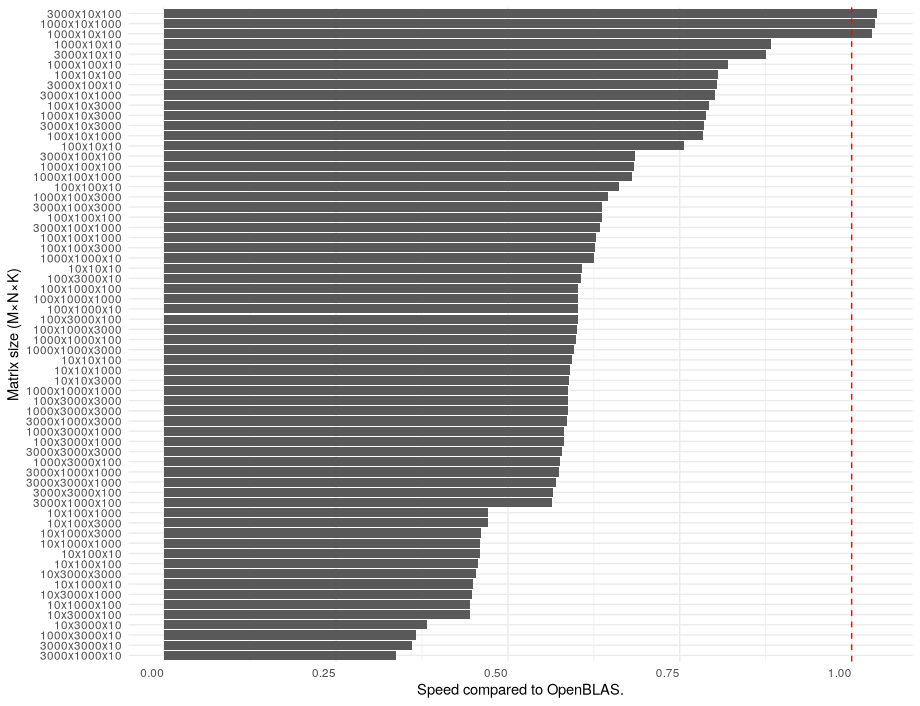
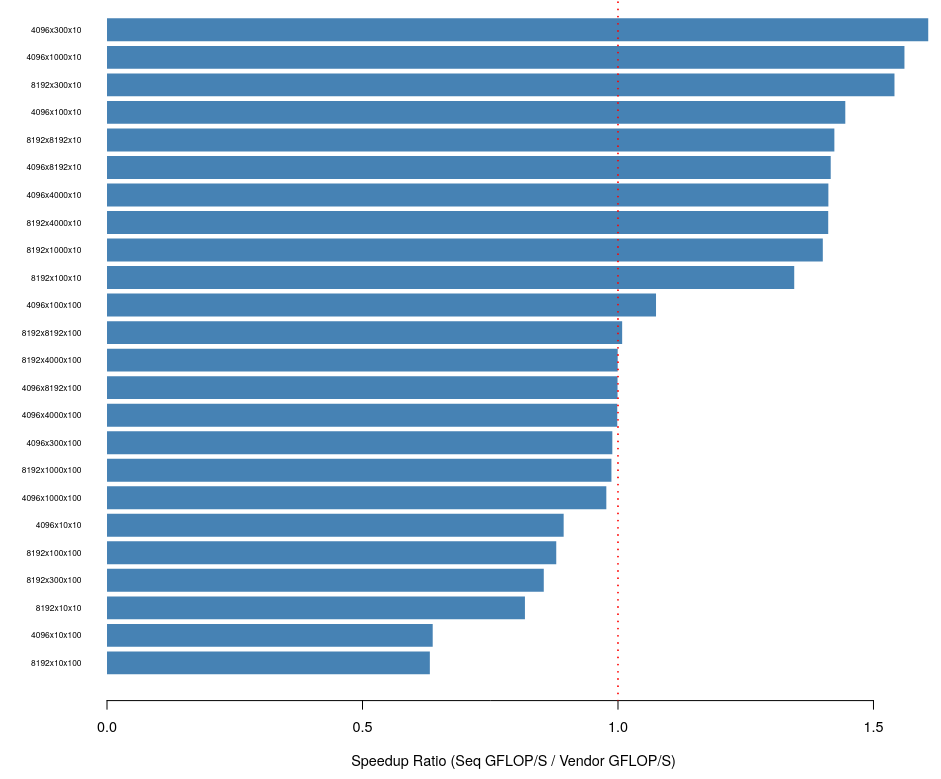
partie goto

diff --git a/report/dgemm_seq.tex b/report/dgemm_seq.tex
@@ -1,0 +1,135 @@
+% \section{Versions séquentielles}
+% \subsection{Considérations}
+% Le code est exécuté sur un coeur d'un Intel Xeon E5-2680 v3 @ 2.50GHz d'un noeud miriel de Plafrim.\\
+% C'est une architecture Haswell, capable de réaliser 16 opérations flottantes par cycle par coeur, avec une vitesse d'horloge maximale de 2.5Ghz, donnant un maximum théorique de 40 GFlop/s sur un seul coeur.
+% \subsection{Implémentation du produit scalaire}
+% Nous avons implémentés une version naïve du produit scalaire, parcourant deux vecteurs pour calculer $<a,b>=\sum_{i=1}^n{a_ib_i}$ pour $a$ et $b$ dans $\mathbb{K}^n$. Comme nous ne l'utiliserons pas dans notre DGEMM, nous n'allons pas perdre de temps à essayer de l'optimiser. De plus, chaque valeur n'étant utilisée qu'une et une seule fois nous ne voyons pas de stratégies d'optimisation évidente.\\
+% Voici une comparaisons sur des vecteurs de tailles croissante entre notre implémentation et celle d'OpenBLAS:
+% \begin{figure}[H]
+%     \centering
+%     \includegraphics[width=0.925\linewidth]{assets/ddot_seq_vs_vendor.png}
+%     \caption{Comparaison entre l'implémentation du produit scalaire d'OpenBLAS et la notre.}
+%     \label{fig:placeholder}
+% \end{figure}
+% On constate donc que, même avec un kernel optimisé, OpenBLAS n'est plus performant que notre implémentation uniquement sur de grands vecteurs ($N > 512$), et que le gain n'est pas significatif car nous restons bien loin du pic théorique. C'est attendu étant donné que; comme dit précédemment, chaque donnée est utilisée une et une seule fois. Cela implique un grand nombre d'aller-retour en mémoire pour une intensité arithmétique faible, un très mauvais cas de figure donc pour maximiser l'utilisation d'un processeur !
+
+% \subsection{Implémentation du produit matriciel}
+% Nous nous baserons, à minima pour les versions CPU du produit matriciel sur l'implémentation classique à trois boucles (en suivant l'ordre $n, k, m$) pour le cas où A et B ne sont pas transposées. Nous réaliserons l'opération $\alpha AB+\beta C$, en prenant donc en compte les valeurs de $\alpha$ et $\beta$. Nous reviendrons sur les performances de cette implémentation plus tard afin de ne pas surcharger le rapport de figures peu intéressantes. Il sera présenté sour le nom de kernel "scalaire". C'est le kernel fourni de base dans le code. Nous avons décidés de le garder car notre implémentation était très similaire, ne gérant simplement pas les cas impliquants une matrice transposée.
+% \subsection{Implémentation de la factorisation LU}
+% <TODO>
+
+% \section{Blocage et vectorisation}
+% \subsection{Implémentatin d'une version en blocs}
+% Nous avons implémentés une version en blocs se reposant sur le kernel de DGEMM "scalaire". Cette dernière est assez simple, nous avons reprit le code du kernel "scalaire", et avons ajoutés un pas égal à `dgemm\_seq\_bloc\_size`. Pour tous les blocs nous allons d'abord appeler scale\_bloc\` pour multiplier les valeurs de $C$ par $\beta$, puis nous appelons le kernel scalaire sur le bloc courant. L'implémentation est peu performante, mais nous n'avons pas cherchés à l'optimiser outre mesure car nous avons basés notre DGEMM séquentiel final sur une approche bloquée assez différente de celle-ci. Nous reviendrons également sur les performances de ce kernel plus tard dans le rapport !
+
+% \subsection{Implémentation d'une version vectorisée}
+% Comme vu précédemment, nous travaillons sur des processeurs Xeon E5-2680 v3 basés sur l'architecture Haswell. Il supporte donc entre autre les extensions SIMD AVX2 et FMA. Concrètement, nous pouvons manipuler des vecteurs de 256 bits. Un double étant un mot de 64 bits, nous pouvons donc manipuler des vecteurs de 4 doubles.\\
+% Une implémentation naïve de l'opération DGEMM peut donc être faite en itérant dans la boucle interne avec un pas de 4 au lieu de 1, et en vectorisant les opérations de la boucle itérant le plus rapidement. Comme dit précédemment, nous itérons dans l'ordre $n, k, m$. Nous traiterons donc les éléments de 4 lignes consécutives à la fois pour chaque itération.\\
+% Le procédé reste donc le même:\\
+% Pour chaque vecteur d'une colonne $n$ de $C$, nous multiplions d'abord les $m$ éléments de ce vecteur par $\beta$, en procédant 4 lignes à la fois. Nous passons ensuite à la réduction sur la dimension $k$. Nous chargeons la valeur de $B$ correspondant au couple $n, k$ courant puis la broadcastons dans un vecteur. Ensuite, nous chargeons 4 lignes du vecteur courant de $A$ et de $C$ et ajoutons aux lignes de $C$ les valeurs des lignes de $A$ multipliées par la valeur broadcastée de $B$, en prenant en compte la multiplication par $\alpha$.\\
+% Finalement, un retour en séquentiel permet de traiter les éléments finaux si $m$ n'est pas divisible par 4.\\
+% \subsubsection{Impact de l'utilisation de FMA}
+% L'implémentation naïve AVX2 utilise ces instruction: "C\_mn\_subvec = \_mm256\_add\_pd(C\_mn\_subvec, \_mm256\_mul\_pd(A\_mk\_subvec, B\_nk\_vec));", qui peuvent être remplacées par "C\_mn\_subvec = \_mm256\_fmadd\_pd(A\_mk\_subvec, B\_nk\_vec, C\_mn\_subvec);". En effet, le jeu d'instruction AVX2+FMA offre la possibilité de réaliser deux opérations Fuse-Multiply-Add par cycle. Cette opération permet de réaliser dans notre cas l'opération $C += A*B$. Voici comment FMA impact la rapidité du kernel:
+% Nous aurions pu nous attendre à ce que le compileur optimise l'enchaînement de la multiplication et l'addition par un FMA, à minima à un niveau d'optimisation -O3, mais après une rapide lecture du code assembleur généré (en passant par Godbolt), nous constatons que ce n'est pas le cas:
+% \begin{lstlisting}
+% dgemm_kernel_avx2_fma:
+%     (...)
+%     vfmadd213pd     ymm7, ymm6, ymmword ptr [r10 + 8*rax]
+%     (...)
+% dgemm_kernel_avx2_nofma:
+%     (...)
+%     vmulpd  ymm7, ymm6, ymm7
+%     vaddpd  ymm7, ymm7, ymmword ptr [r10 + 8*rax]
+%     (...)
+% \end{lstlisting}
+% Et pourtant aucun speedup significatif n'est observé, les résultats sont les même sauf pour de très petites matrices mais ce n'est pas significatif.
+% \subsubsection{Blocage + vectorisation}
+% Finalement, nous pouvons remplacer l'appel à dgemm\_scalaire par un appel à dgemm\_avx2 dans la fonction dgemm\_bloc, ce qui nous donne ces résultats:
+% \begin{figure}[H]
+%     \centering
+%     \includegraphics[width=1\linewidth]{assets/avx_bloc.png}
+%     \caption{AVX2 + Blocage, différentes tailles de blocs}
+%     \label{fig:placeholder}
+% \end{figure}
+% \subsection{Résultats}
+% \begin{figure}[H]
+%     \centering
+%     \includegraphics[width=1\linewidth]{assets/all_naive.png}
+%     \caption{Comparaisons des performances des différentes versions séquentielles implémentées ainsi que de l'implémentation de référence (OpenBLAS)}
+%     \label{fig:placeholder}
+% \end{figure}
+
+\section{Implémentation de l'article Anatomy of High-Performance Matrix
+Multiplication}
+\subsection{Avant Propos}
+\begin{figure}[h]
+    \centering
+    \begin{minipage}{0.35\textwidth}
+        Nous avons commencé par implémenter différentes versions séquentielles et AVX, 
+        bloquées ou non, avant de constater que les performances n'étaient pas au 
+        rendez-vous. Voici tout de même les performances observées pour les 
+        différentes versions, où l'on constate très clairement une très mauvaise 
+        gestion des caches et un effondrement rapide des performances.
+    \end{minipage}
+    \hfill
+    \begin{minipage}{0.55\textwidth}
+        \centering
+        \includegraphics[width=\textwidth]{assets/all_naive.png}
+        \caption{Comparaison des performances de nos premières implémentations, et de OpenBLAS (vendor)}
+        \label{fig:perf_comparison}
+    \end{minipage}
+\end{figure}
+
+\subsection{Idée générale}
+Nous constatons que nous sommes bien loin du pic théorique même en utilisant le jeu d'instruction AVX et FMA, et que même sans viser ce pic nous restons loin de l'implémentation d'OpenBLAS ce qui signifie qu'il reste beaucoup de place à l'amélioration.\\
+En cherchant des articles sur le sujet du GEMM séquentiel nous avons trouvé, entre autre, "Anatomy of High-Performance Matrix Multiplication" qui propose un découpage des matrices à plusieurs niveaux afin de maximiser l'utilisation des caches. Il a également recours à de la réorganisation de la donnée dans des tableaux de travail afin de maximiser la contiguïté de ces dernières, en les ordonnant dans l'ordre de lecture du noyau de GEMM.\\
+
+L'idée est de découper l'opération GEMM en plusieurs sous-problèmes plus petits et tenant dans les caches, à la manière d'un blocage classique. Un certain nombre d'approches sont présentées dans l'article, mais une seule est vraiment développée; c'est celle que nous avons tenté de comprendre et d'implémenter.\\
+
+D'abord, nous découpons $A$ et $B$ en panels le long de la dimension de réduction $k$, panels de taille $KC$. Nous nous retrouvons désormais avec des panels de la forme $P_{A_i}\in\mathcal{M}_{M,KC}$ pour les panels de $A$, et $P_{B_i}\in\mathcal{M}_{KC,N}$ pour les panels de $B$ toujours dans le but de construire $C\in\mathcal{M}_{M,N}$.\\
+
+Ensuite, nous appelons une opération GEPP (GEPanel x Panel). Dans cette opération, nous découpons le panel courant de $A$ en blocs la forme $B_{P_{A_i}}\in\mathcal{M}_{MC, KC}$, puis nous appellons une opération DGEBP (DGEBloc x Panel) avec le bloc courant de $A$ et le panel courant de $B$ qui a été préalablement réorganisé afin d'être contiguë sur la dimension $n$.\\
+
+Finalement, DGEBP réorganise le panel de A en sous matrices de taille $MR\times NR$ avant  d'appeller un micro-kernel de taille $MR\times NR$ conçu pour tirer le meilleur parti de l'architecture du processeur.\\
+
+Nous avons joint en annexe un schéma expliquant l'algorithme avec une vue assez haut niveau <AJOUTER EN ANNEXE!!!>\\
+
+L'intérêt de ce découpage est donc de faire en sorte de travailler avec des panels de $B$ et des blocks de $A$ ayant des tailles réduites et tenant dans les caches. De plus, la taille du micro-kernel dépend du nombre de registres disponibles par unité de calcul, où plutôt du nombre de registres adressables par unité de calcul. Dans les faits, nous allons optimiser les paramètres afin de maximiser l'utilisation des registres sans en dépasser le nombre pour éviter au maximum les déchargements de registres sur le tas (register spilling).\\
+
+\subsection{Choix des paramètres}
+Nous avons la main sur un certain nombre de paramètres à savoir:
+\begin{itemize}
+    \item $MR$ et $NR$ la taille des blocs du micro-kernel.
+    \item $KC$ et $MC$ la taille des dimensions $k$ et $m$ des blocs/panels.
+    \item dans les faits, nous avons également un paramètre implicit $KR$. Le micro-kernel déroule la boucle de la réduction sur l'axe $k$, en les traitant par groupe de 8.
+\end{itemize}
+
+Bien que les étapes de réorganisation des données soient communes à toutes les architectures, le micro-kernel est quand-à-lui spécialisé pour utiliser efficacement ce qu'offre  l'architecture du CPU. Dans les faits, nous visons des processeurs d'architecture Haswell (Xeon E5-2680 v3, 2.50GHz, pic théorique de 40Gflop/s en double), offrant à l'usage 16 registres vectoriels. Sachant cela, nous avons décidé de fixer $MR=4$ et $NR=8$. Cela nous permet d'utiliser 8 registres vectoriels pour stocker les 8 colonnes de C, 1 registre pour stocker une ligne de A et 1 registre pour stocker un broadcast d'une valeur de B, pour un total de 10 registres utilisés. Nous avons également testé une configuration avec $MR=4$ et $NR=12$ dans le but de maximiser le nombre de registres utilisés mais les performances se sont dégradées.. \\
+
+Enfin, pour fixer KC et MC nous avons d'abord essayé de suivre les recommandations du papier, en fixant $KC=256$ et $MC=64$, puis avons expérimenté empiriquement en variant KC et MC pour finir avec $KC=256$, $MC=2048$. Ces valeurs devraient normalement sous-performer car $KC\ \times MC$ doubles dépasse largement les 256Ko du cache L2, mais nous supposons que c'est en parti du à un cache L3 assez large couplé au hardware prefetcher.
+
+\subsection{Micro-kernel}
+Nous nous focalisons sur le calcul Non Transposé x Non Transposé en Column Major.\\
+
+En observant la sortie assembleur sur Godbolt \footnote{\href{https://godbolt.org/z/PPx1q9PYz}{Assembleur généré pour le micro-kernel, même version de GCC que sur PlaFRIM}}, nous constatons effectivement que l'on commence par charger les 8 colonnes de $C$, puis GCC déroule nos boucle préfixées par un \#pragma GCC unroll 8, en gérant l'éventuel résidu avec une table de branchement, et utilise bien les 10 registres ymm0-ymm9 prévus sans 
+les décharger sur le stack. La suite n'est qu'une succession de mov/broadcast/fmadd jusqu'à avoir parcouru l'entièreté de $K$, après quoi on saute au label à la sauvegarde des valeurs calculées dans C.\\
+
+\subsection{Résultats}
+Tout d'abord comparons cette version à OpenBLAS sur des matrices carrées, en lançant à chaque fois au moins 10 itérations par expérience:
+\begin{figure}[H]
+    \centering
+    \includegraphics[width=.75\linewidth]{assets/vendor_vs_goto_square.png}
+    \caption{Notre implémentation basée sur GOTO vs OpenBLAS}
+    \label{fig:vendor-vs-seq-square}
+\end{figure}
+
+On voit bien qu'assez vite, OpenBLAS outreperforme notre implémentation, ce qui était attendu étant donné qu'il s'agit d'une évolution de GotoBLAS2. Cependant nous atteignons quand même en moyenne près de 75\% de ses performances. On constate également qu'une fois les matrices assez grandes pour maximiser l'intensité arithmétique (dans la mesure du possible pour un DGEMM), alors les performances restent constantes contrairement à nos premières tentatives de DGEMM qui finissaient toutes par avoir des chutes de performances dès lors que les matrices sortaient des caches.\\
+
+Nous avons également décidé de faire la comparaison sur des combinaisons de tailles différentes pour les matrices en faisant varier indépendamment $M, N$ et $K$.
+\begin{figure}[H]
+    \centering
+    \includegraphics[width=.75\linewidth]{assets/vendor_vs_goto_diffsize.png}
+    \caption{Comparaison entre notre implémentation GOTO et OpenBLAS sur différentes tailles de matrices}
+    \label{fig:vendor-vs-goto-diffsize}
+\end{figure}
+Nous constatons que lorsque la dimension K est très petite, nous pouvons dépasser OpenBLAS même si les dimensions M et N sont grandes, avec par exemple 8192x8192x10, et c'est également le cas pour certaines configurations avec K=100. Cela tend à montrer que notre découpage est plutôt bon, et que c'est principalement le micro-kernel qui laisse place à de l'amélioration, même si c'est également du à la simplicité de la prise de décision dans notre implémentation là ou OpenBLAS a un surcoût dans le choix du chemin utilisé selon les caractéristiques de la matrice. En comparant les deux versions à l'aide d'Intel VTune nous constatons que nous saturons le pipeline de chargements depuis le cache L1 là où OpenBLAS semble moins limité par ce facteur. Nous supposons que cela résulte entre-autre d'un meilleur prefetching et d'un meilleur pipelining.

diff --git a/report/report.tex b/report/report.tex
@@ -56,118 +56,7 @@
 
 \pagebreak
 
-\section{Versions séquentielles}
-\subsection{Considérations}
-Le code est exécuté sur un coeur d'un Intel Xeon E5-2680 v3 @ 2.50GHz d'un noeud miriel de Plafrim.\\
-C'est une architecture Haswell, capable de réaliser 16 opérations flottantes par cycle par coeur, avec une vitesse d'horloge maximale de 2.5Ghz, donnant un maximum théorique de 40 GFlop/s sur un seul coeur.
-\subsection{Implémentation du produit scalaire}
-Nous avons implémentés une version naïve du produit scalaire, parcourant deux vecteurs pour calculer $<a,b>=\sum_{i=1}^n{a_ib_i}$ pour $a$ et $b$ dans $\mathbb{K}^n$. Comme nous ne l'utiliserons pas dans notre DGEMM, nous n'allons pas perdre de temps à essayer de l'optimiser. De plus, chaque valeur n'étant utilisée qu'une et une seule fois nous ne voyons pas de stratégies d'optimisation évidente.\\
-Voici une comparaisons sur des vecteurs de tailles croissante entre notre implémentation et celle d'OpenBLAS:
-\begin{figure}[H]
-    \centering
-    \includegraphics[width=0.925\linewidth]{assets/ddot_seq_vs_vendor.png}
-    \caption{Comparaison entre l'implémentation du produit scalaire d'OpenBLAS et la notre.}
-    \label{fig:placeholder}
-\end{figure}
-On constate donc que, même avec un kernel optimisé, OpenBLAS n'est plus performant que notre implémentation uniquement sur de grands vecteurs ($N > 512$), et que le gain n'est pas significatif car nous restons bien loin du pic théorique. C'est attendu étant donné que; comme dit précédemment, chaque donnée est utilisée une et une seule fois. Cela implique un grand nombre d'aller-retour en mémoire pour une intensité arithmétique faible, un très mauvais cas de figure donc pour maximiser l'utilisation d'un processeur !
-
-\subsection{Implémentation du produit matriciel}
-Nous nous baserons, à minima pour les versions CPU du produit matriciel sur l'implémentation classique à trois boucles (en suivant l'ordre $n, k, m$) pour le cas où A et B ne sont pas transposées. Nous réaliserons l'opération $\alpha AB+\beta C$, en prenant donc en compte les valeurs de $\alpha$ et $\beta$. Nous reviendrons sur les performances de cette implémentation plus tard afin de ne pas surcharger le rapport de figures peu intéressantes. Il sera présenté sour le nom de kernel "scalaire". C'est le kernel fourni de base dans le code. Nous avons décidés de le garder car notre implémentation était très similaire, ne gérant simplement pas les cas impliquants une matrice transposée.
-\subsection{Implémentation de la factorisation LU}
-<TODO>
-
-\section{Blocage et vectorisation}
-\subsection{Implémentatin d'une version en blocs}
-Nous avons implémentés une version en blocs se reposant sur le kernel de DGEMM "scalaire". Cette dernière est assez simple, nous avons reprit le code du kernel "scalaire", et avons ajoutés un pas égal à `dgemm\_seq\_bloc\_size`. Pour tous les blocs nous allons d'abord appeler scale\_bloc\` pour multiplier les valeurs de $C$ par $\beta$, puis nous appelons le kernel scalaire sur le bloc courant. L'implémentation est peu performante, mais nous n'avons pas cherchés à l'optimiser outre mesure car nous avons basés notre DGEMM séquentiel final sur une approche bloquée assez différente de celle-ci. Nous reviendrons également sur les performances de ce kernel plus tard dans le rapport !
-
-\subsection{Implémentation d'une version vectorisée}
-Comme vu précédemment, nous travaillons sur des processeurs Xeon E5-2680 v3 basés sur l'architecture Haswell. Il supporte donc entre autre les extensions SIMD AVX2 et FMA. Concrètement, nous pouvons manipuler des vecteurs de 256 bits. Un double étant un mot de 64 bits, nous pouvons donc manipuler des vecteurs de 4 doubles.\\
-Une implémentation naïve de l'opération DGEMM peut donc être faite en itérant dans la boucle interne avec un pas de 4 au lieu de 1, et en vectorisant les opérations de la boucle itérant le plus rapidement. Comme dit précédemment, nous itérons dans l'ordre $n, k, m$. Nous traiterons donc les éléments de 4 lignes consécutives à la fois pour chaque itération.\\
-Le procédé reste donc le même:\\
-Pour chaque vecteur d'une colonne $n$ de $C$, nous multiplions d'abord les $m$ éléments de ce vecteur par $\beta$, en procédant 4 lignes à la fois. Nous passons ensuite à la réduction sur la dimension $k$. Nous chargeons la valeur de $B$ correspondant au couple $n, k$ courant puis la broadcastons dans un vecteur. Ensuite, nous chargeons 4 lignes du vecteur courant de $A$ et de $C$ et ajoutons aux lignes de $C$ les valeurs des lignes de $A$ multipliées par la valeur broadcastée de $B$, en prenant en compte la multiplication par $\alpha$.\\
-Finalement, un retour en séquentiel permet de traiter les éléments finaux si $m$ n'est pas divisible par 4.\\
-\subsubsection{Impact de l'utilisation de FMA}
-L'implémentation naïve AVX2 utilise ces instruction: "C\_mn\_subvec = \_mm256\_add\_pd(C\_mn\_subvec, \_mm256\_mul\_pd(A\_mk\_subvec, B\_nk\_vec));", qui peuvent être remplacées par "C\_mn\_subvec = \_mm256\_fmadd\_pd(A\_mk\_subvec, B\_nk\_vec, C\_mn\_subvec);". En effet, le jeu d'instruction AVX2+FMA offre la possibilité de réaliser deux opérations Fuse-Multiply-Add par cycle. Cette opération permet de réaliser dans notre cas l'opération $C += A*B$. Voici comment FMA impact la rapidité du kernel:
-Nous aurions pu nous attendre à ce que le compileur optimise l'enchaînement de la multiplication et l'addition par un FMA, à minima à un niveau d'optimisation -O3, mais après une rapide lecture du code assembleur généré (en passant par Godbolt), nous constatons que ce n'est pas le cas:
-\begin{lstlisting}
-dgemm_kernel_avx2_fma:
-    (...)
-    vfmadd213pd     ymm7, ymm6, ymmword ptr [r10 + 8*rax]
-    (...)
-dgemm_kernel_avx2_nofma:
-    (...)
-    vmulpd  ymm7, ymm6, ymm7
-    vaddpd  ymm7, ymm7, ymmword ptr [r10 + 8*rax]
-    (...)
-\end{lstlisting}
-Et pourtant aucun speedup significatif n'est observé, les résultats sont les même sauf pour de très petites matrices mais ce n'est pas significatif.
-\subsubsection{Blocage + vectorisation}
-Finalement, nous pouvons remplacer l'appel à dgemm\_scalaire par un appel à dgemm\_avx2 dans la fonction dgemm\_bloc, ce qui nous donne ces résultats:
-\begin{figure}[H]
-    \centering
-    \includegraphics[width=1\linewidth]{assets/avx_bloc.png}
-    \caption{AVX2 + Blocage, différentes tailles de blocs}
-    \label{fig:placeholder}
-\end{figure}
-\subsection{Résultats}
-\begin{figure}[H]
-    \centering
-    \includegraphics[width=1\linewidth]{assets/all_naive.png}
-    \caption{Comparaisons des performances des différentes versions séquentielles implémentées ainsi que de l'implémentation de référence (OpenBLAS)}
-    \label{fig:placeholder}
-\end{figure}
-\subsection{Implémentation de l'article Anatomy of High-Performance Matrix
-Multiplication}
-Nous constatons que nous sommes bien loin du pic theorique annoncé même en utilisant les instruction vectorielles, et que même sans viser ce pic nous restons loin de l'implémentation vendor ce qui signifie qu'il reste beaucoup de place à l'amélioration.\\
-En cherchant des articles sur le sujet du DGEMM séquentiel nous avons découvert "Anatomy of High-Performance Matrix Multiplication" qui se basais sur un découpage des matrices en plusieurs niveaux afin de maximiser l'utilisation des caches. Il recourait également à de la réorganisation de la donnée sur des tableaux de travail afin de maximiser la contiguité de ces dernières.\\
-De plus, il nous semblait assez simple à distribuer quand nous nous travaillerons sur des versions de cet acabit.
-L'idée est de découper l'opération DGEMM en plusieurs sous-blocs, mais n'est pas directement comparable à une version en blocs de taille fixe. Un certain nombre d'approches sont présentées dans l'article, mais une seule est vraiment développée; c'est celle que nous avons tentés de comprendre et d'implémenter.\\
-D'abord, nous découpons $A$ et $B$ en panels le long de la dimension de réduction $k$, panels de taille $KC$. Nous nous retrouvons désormais avec des panels de la forme $P_{A_i}\in\mathcal{M}_{M,KC}$ pour les panels de $A$, $P_{B_i}\in\mathcal{M}_{KB,N}$ pour les panels de $B$ toujours dans le but de construire $C\in\mathcal{M}_{M,N}$.\\
-Ensuite, nous appellons une opération DGEPP (DGEPanel x Panel). Dans cette opération, nous découpons le panel courant de $A$ en blocs la forme $B_{P_{A_i}}\in\mathcal{M}_{MC, KC}$, puis nous appellons une opération DGEBP (DGEBloc x Panel) avec le bloc courant de $A$ et le panel courant de $B$.\\
-Finalement, DGEPP appelle un micro-kernel de taille $MR\times NR$ conçu pour tirer le meilleur parti de l'architecture du processeur.\\
-L'intérêt de ce découpage est donc de faire en sorte de travailler avec des panels de $B$ et des blocks de $A$ ayant des tailles réduites et tenant dans les caches. De plus, la taille du micro-kernel dépend du nombre de registres disponibles par unité de calcul, où plutôt du nombre de registres adressables. Dans les faits, nous allons optimiser les paramètres afin de maximiser l'utilisation des registres sans en dépasser le nombre pour éviter au maximum les déchargements inutils (register spilling).\\
-De plus, un prétraitement est appliqué aux panels de $B$ et de $A$ afin de favoriser des accès contigues en mémoire en réordonnant $B$ pour qu'il soit dans un ordre row-major et $A$ pour qu'il contienne les matrices de taille $MR\times NR$ utilisées par le micro-kernel dans un ordre contigüe. Ces réordonnement sont également détaillés en commentaire dans le code.\\
-TODO:SCHEMA EXPLICATIF
-\subsubsection{Choix des paramètres}
-Nous avons la main sur un certain nombre de paramètres à savoir:
-\begin{itemize}
-    \item $MR$ et $NR$ la taille des blocs du micro-kernel.
-    \item $KC$ et $MC$ la taille des dimensions $k$ et $m$ des blocs/panels.
-    \item dans les faits, nous avons également un paramètre $KR$. Le micro-kernel déroule la boucle de la réduction sur l'axe $k$, en les traitant 8 par 8.
-\end{itemize}
-L'article nous donne quelques indications sur comment les fixer.
-Pour les choix de $MR$ et $NR$, l'objectif est de maximiser l'utilisation des registres AVX2 (les fameux registres ymm). L'architecture Haswell nous permet de travailler avec 16 registres. Un contiendra une partie de $A$, 6 serviront aux $NR$ valeurs du panel de $B$ que l'on broadcast, et 6 autres serviront aux $NR$ valeurs de $C_{aux}$. Cela nous fait un total de 13 registres utilisés, sans prendre en compte une quelconque optimisation du compileur.\\
-Pour s'en assurer, nous avons isolés le code du kernel puis l'avons compilés sur godblot afin d'avoir une sortie assembleur lisible.\\
-Nous constatons bel et bien l'utilisation des registres ymm0-ymm12
-\begin{lstlisting}[language=x86asm]
-(...)
-    vfmadd231pd     ymm1, ymm6, ymm7
-    vfmadd231pd     ymm0, ymm6, ymm8
-    vfmadd231pd     ymm2, ymm6, ymm9
-    vfmadd231pd     ymm5, ymm6, ymm10
-    vfmadd231pd     ymm4, ymm6, ymm11
-    vfmadd231pd     ymm3, ymm6, ymm12
-(...)
-\end{lstlisting}
-De plus, je constate également que mes boucles sont bien unroll par pack de 8, avec une neuvième section correspondant à la boucle à pas de 1 appelée lorsque l'on doit faire moins de 8 appels de kernel.\\
-Pour $KC$ et $MC$, l'objectif est de maximiser l'utilisation des caches L1 et L2 pour le stockage de A et B après leur réordonnement. Nous les fixons à 320 pour $KC$ et 32 pour $MC$. Ces choix sont légèrement plus détaillés dans le code.\\
-Enfin, le paramètre $KR$, bien que pas mentionné directement dans l'article, permet de choisir le nombre d'itérations sur la dimension $k$ dans le micro-kernel dans le déroulage de boucle. $KR=8$ signifie que l'on applique 8 fois le micro-kernel par boucle, minimisant le nombre de branchements. Evidemment on gère le cas où l'on doit faire moins de $KR$ appels au kernel!
-\subsubsection{Résultats}
-Tout d'abord comparons cette version à OpenBLAS sur des matrices carrées:
-\begin{figure}[H]
-    \centering
-    \includegraphics[width=1\linewidth]{assets/vendor_vs_goto_square.png}
-    \caption{Notre implémentation basée sur GOTO vs OpenBLAS}
-    \label{fig:placeholder}
-\end{figure}
-On voit bien que très vite, OpenBLAS outreperforme notre implémentation, ce qui était attendu. Cependant nous atteignons quand même en moyenne la moitié des GFLOP/s. Nous avons décidés de faire la comparaison sur des combinaisons de tailles différentes pour les matrices en faisant varier indépendamment $M, N$ et $K$.
-\begin{figure}[H]
-    \centering
-    \includegraphics[width=1\linewidth]{assets/vendor_vs_goto_diffsize.png}
-    \caption{Comparaison entre notre implémentation GOTO et OpenBLAS sur différentes tailles de matrices}
-    \label{fig:placeholder}
-\end{figure}
-Nous voyons que sur trois cas nous battons OpenBLAS pour des matrices hautes et fines, et globalement nous tournons autour des 50\% des performances d'OpenBLAS en séquentiel. La taille de la dimension $M$ semble jouer un rôle particulièrement important ce qui est cohérent avec le fait que si $M\leq MC$, alors on fait un dgemm scalaire.
+\input{dgemm_seq.tex}
 
 \subsection{DGETRF}
 
